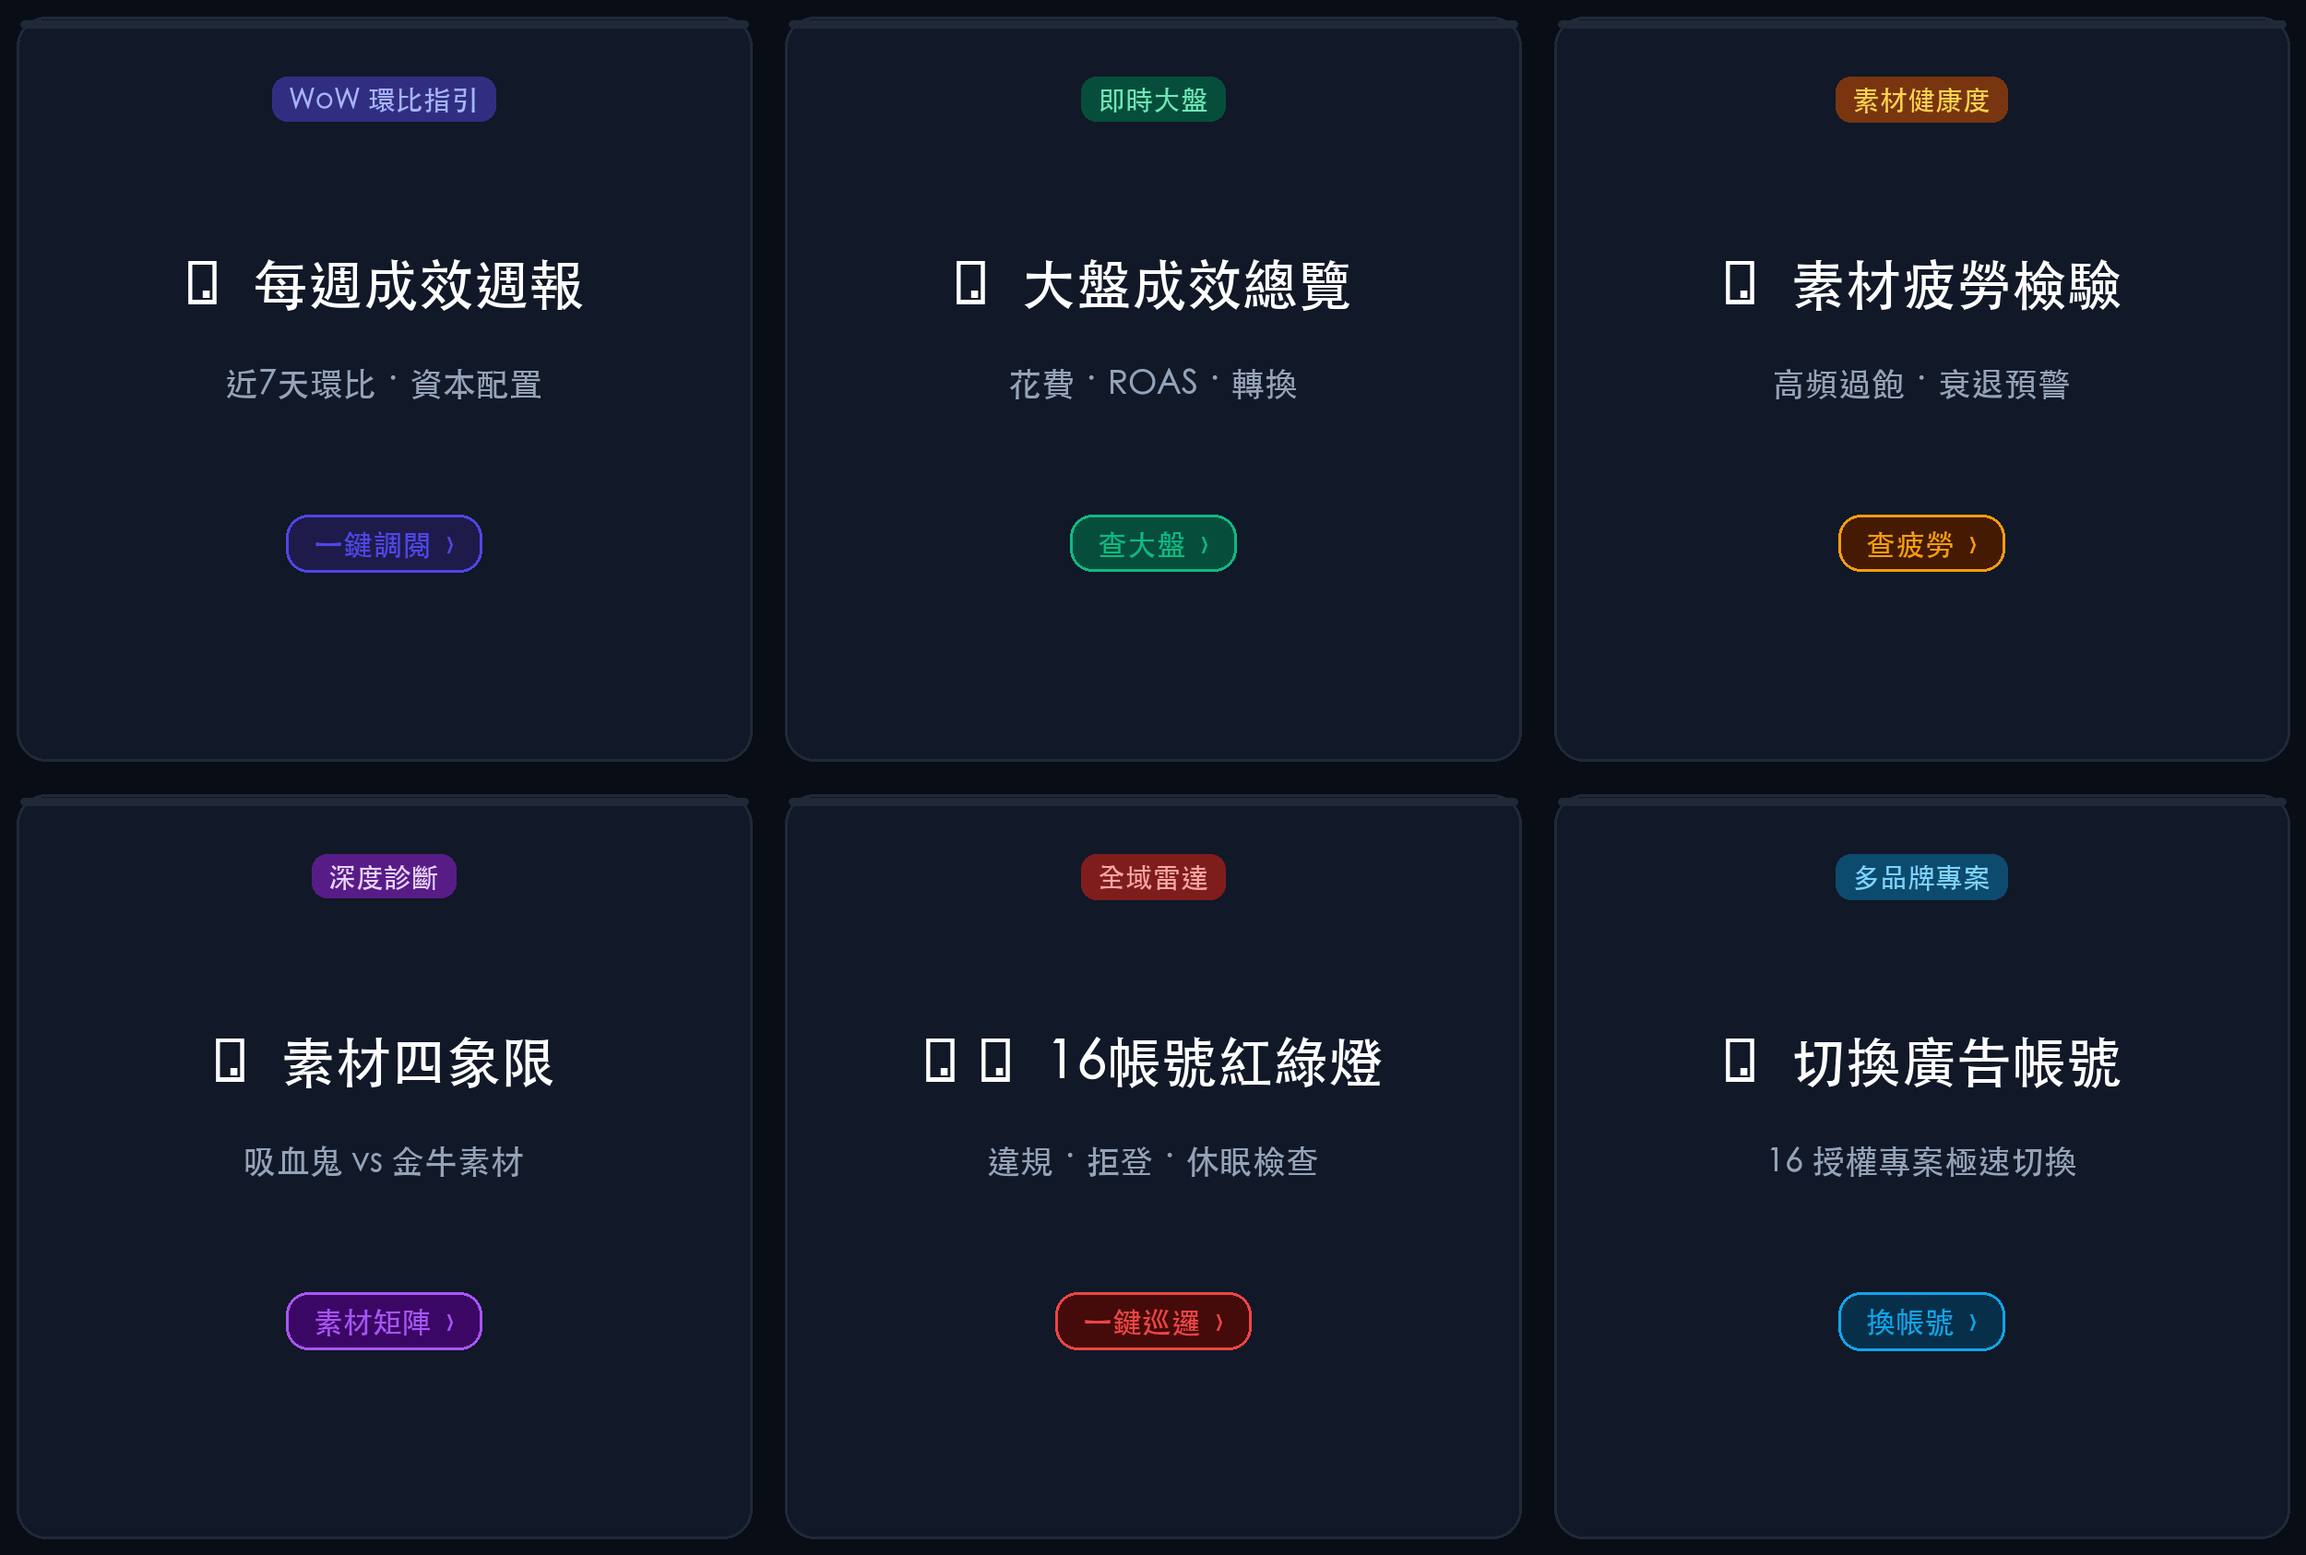
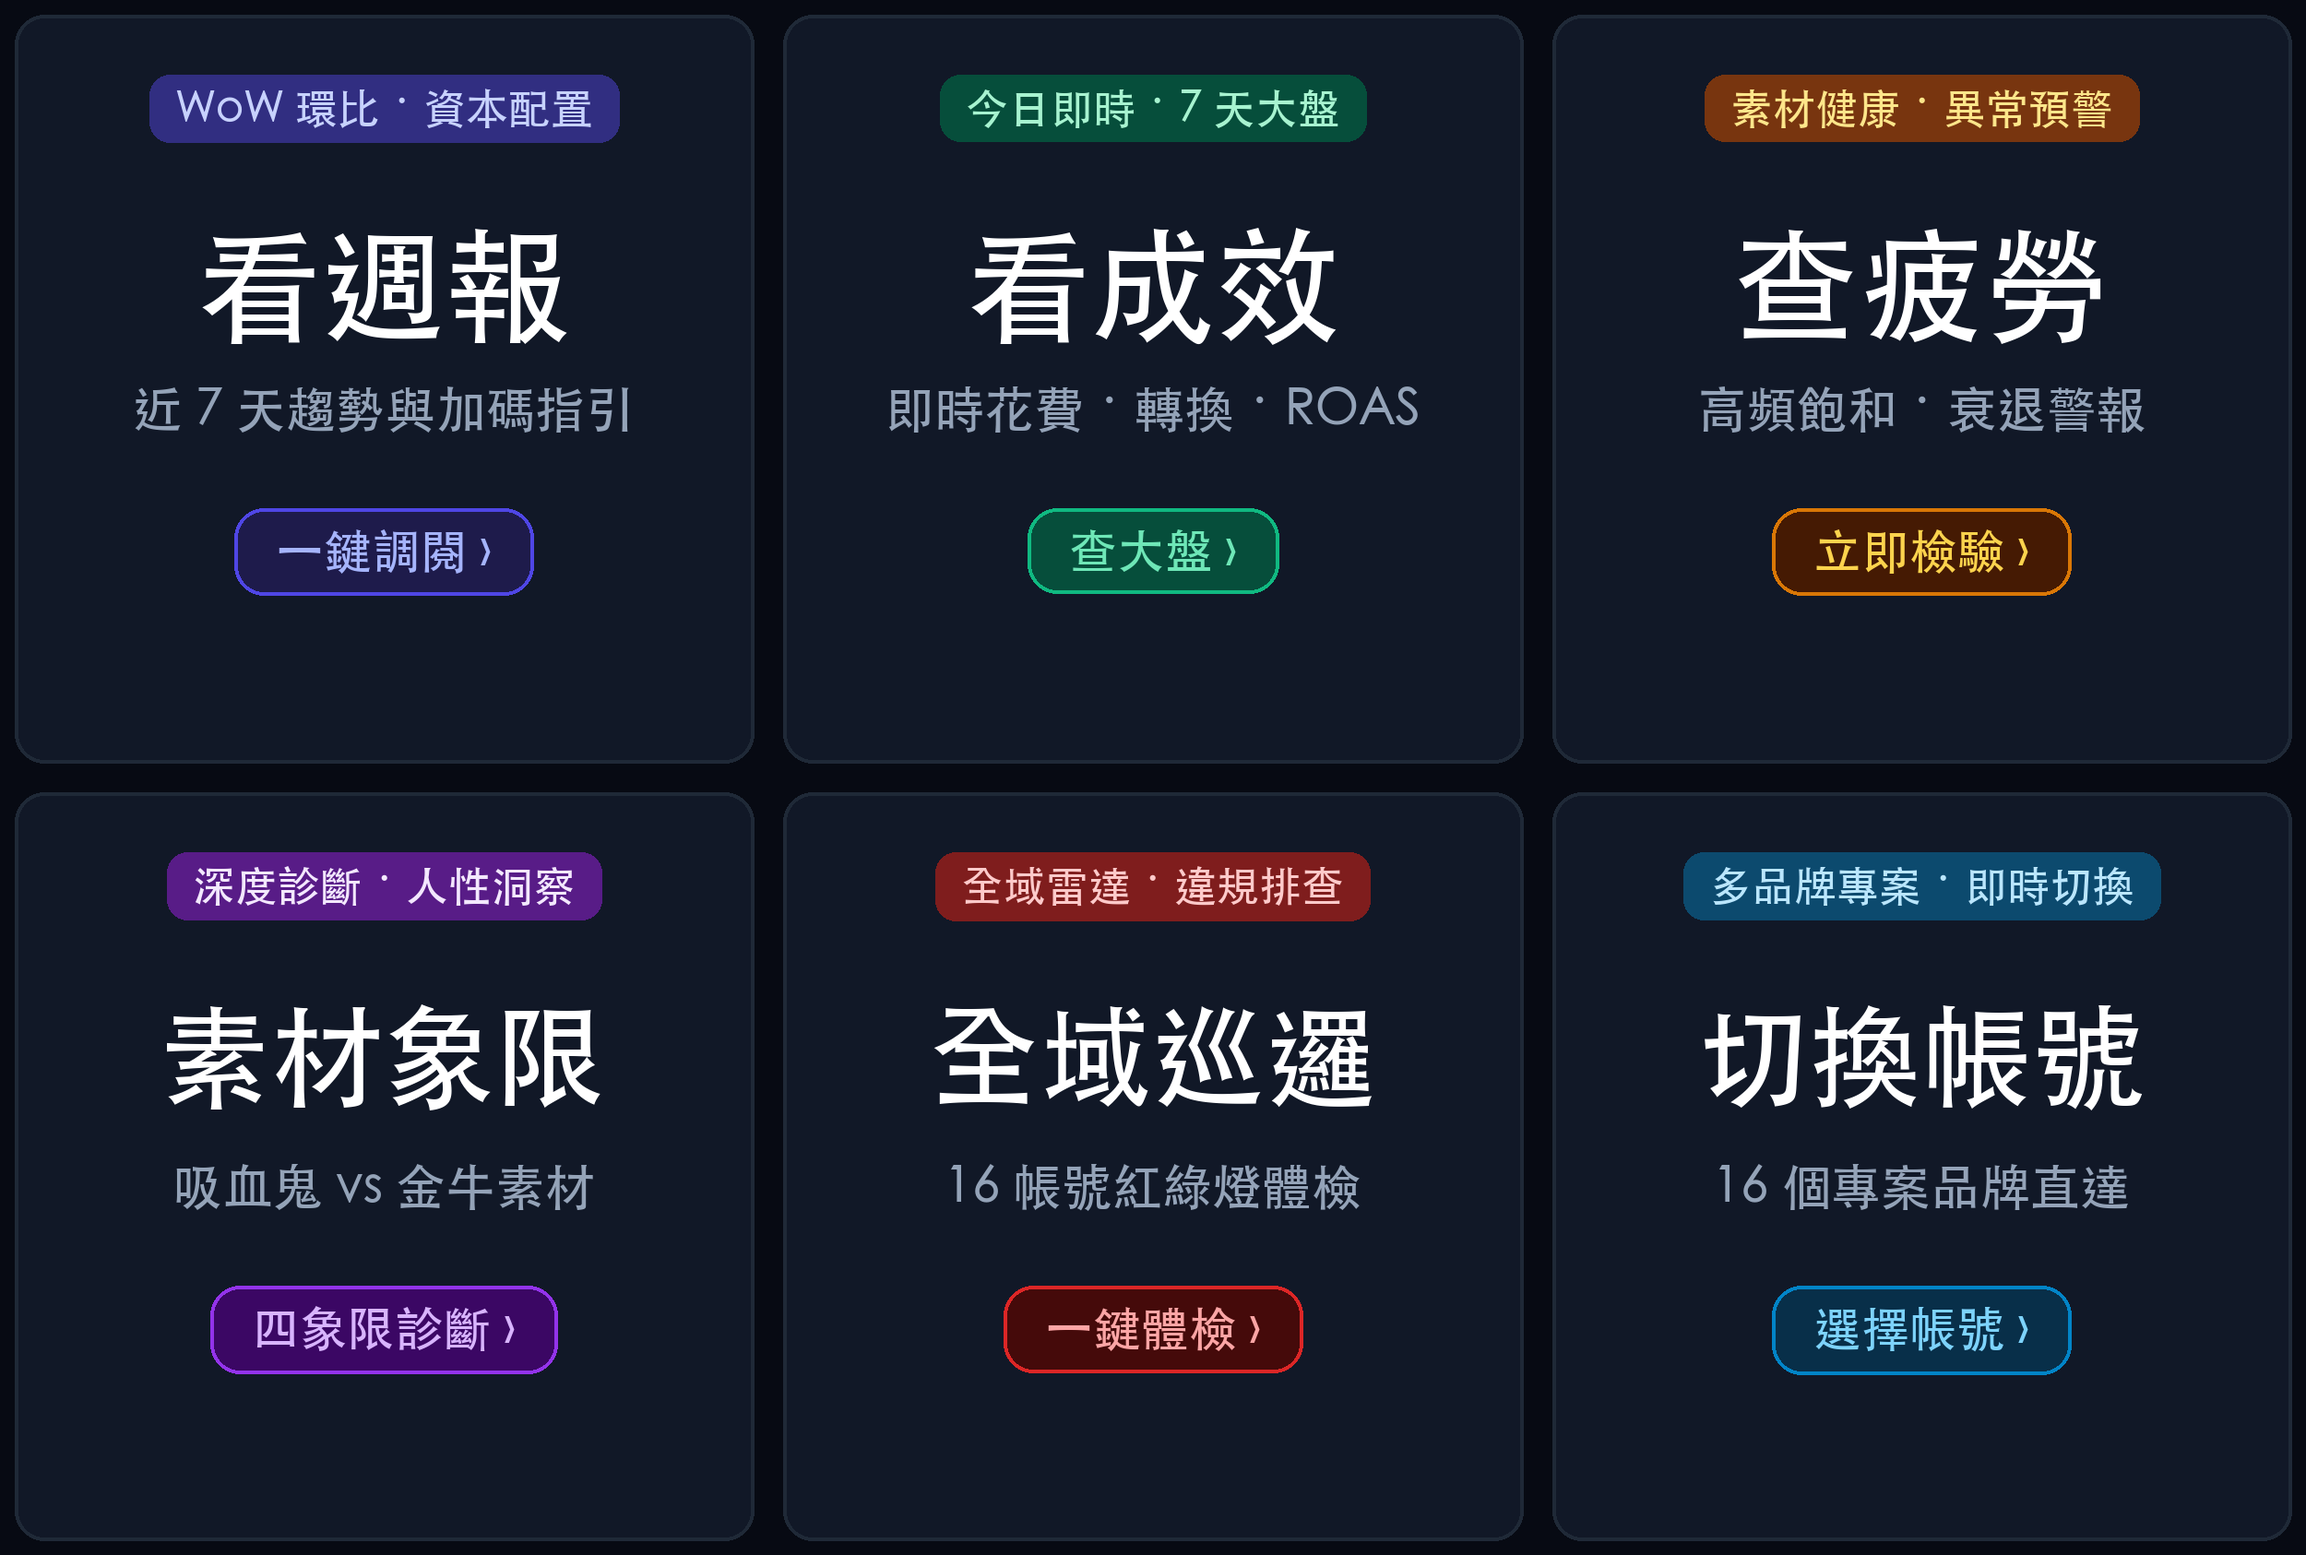
style: enlarge rich menu text for mobile readability and remove broken emoji glyphs

diff --git a/scripts/generate_rich_menu.py b/scripts/generate_rich_menu.py
@@ -1,59 +1,61 @@
 from PIL import Image, ImageDraw, ImageFont
-import os
 
 W = 2500
 H = 1686
-img = Image.new('RGB', (W, H), color='#090D16')
+img = Image.new('RGB', (W, H), color='#070A13')
 draw = ImageDraw.Draw(img)
 
-# Fonts
-font_title = ImageFont.truetype('/System/Library/Fonts/STHeiti Medium.ttc', 60)
-font_sub = ImageFont.truetype('/System/Library/Fonts/STHeiti Medium.ttc', 36)
-font_badge = ImageFont.truetype('/System/Library/Fonts/STHeiti Medium.ttc', 30)
-font_btn = ImageFont.truetype('/System/Library/Fonts/STHeiti Medium.ttc', 32)
+font_path = '/System/Library/Fonts/STHeiti Medium.ttc'
+
+# Maximum readability font sizes for mobile
+font_title_3 = ImageFont.truetype(font_path, 136)  # For 3-character titles like 看週報, 看成效, 查疲勞
+font_title_4 = ImageFont.truetype(font_path, 122)  # For 4-character titles like 素材象限, 全域巡邏, 切換帳號
+font_sub = ImageFont.truetype(font_path, 54)
+font_badge = ImageFont.truetype(font_path, 46)
+font_btn = ImageFont.truetype(font_path, 52)
 
 tiles = [
     {
         'col': 0, 'row': 0,
-        'tag': 'WoW 環比指引', 'tag_bg': '#312E81', 'tag_color': '#A5B4FC',
-        'icon': '📊', 'title': '每週成效週報',
-        'sub': '近7天環比 ‧ 資本配置',
-        'btn': '一鍵調閱', 'btn_color': '#4F46E5', 'btn_bg': '#1E1B4B'
+        'tag': 'WoW 環比 ‧ 資本配置', 'tag_bg': '#312E81', 'tag_color': '#C7D2FE',
+        'title': '看週報',
+        'sub': '近 7 天趨勢與加碼指引',
+        'btn': '一鍵調閱 ›', 'btn_color': '#A5B4FC', 'btn_bg': '#1E1B4B', 'btn_border': '#4F46E5'
     },
     {
         'col': 1, 'row': 0,
-        'tag': '即時大盤', 'tag_bg': '#064E3B', 'tag_color': '#6EE7B7',
-        'icon': '📈', 'title': '大盤成效總覽',
-        'sub': '花費 ‧ ROAS ‧ 轉換',
-        'btn': '查大盤', 'btn_color': '#10B981', 'btn_bg': '#064E3B'
+        'tag': '今日即時 ‧ 7 天大盤', 'tag_bg': '#064E3B', 'tag_color': '#A7F3D0',
+        'title': '看成效',
+        'sub': '即時花費 ‧ 轉換 ‧ ROAS',
+        'btn': '查大盤 ›', 'btn_color': '#6EE7B7', 'btn_bg': '#064E3B', 'btn_border': '#10B981'
     },
     {
         'col': 2, 'row': 0,
-        'tag': '素材健康度', 'tag_bg': '#78350F', 'tag_color': '#FCD34D',
-        'icon': '⚡', 'title': '素材疲勞檢驗',
-        'sub': '高頻過飽 ‧ 衰退預警',
-        'btn': '查疲勞', 'btn_color': '#F59E0B', 'btn_bg': '#451A03'
+        'tag': '素材健康 ‧ 異常預警', 'tag_bg': '#78350F', 'tag_color': '#FDE68A',
+        'title': '查疲勞',
+        'sub': '高頻飽和 ‧ 衰退警報',
+        'btn': '立即檢驗 ›', 'btn_color': '#FCD34D', 'btn_bg': '#451A03', 'btn_border': '#D97706'
     },
     {
         'col': 0, 'row': 1,
-        'tag': '深度診斷', 'tag_bg': '#581C87', 'tag_color': '#E9D5FF',
-        'icon': '🎯', 'title': '素材四象限',
+        'tag': '深度診斷 ‧ 人性洞察', 'tag_bg': '#581C87', 'tag_color': '#F3E8FF',
+        'title': '素材象限',
         'sub': '吸血鬼 vs 金牛素材',
-        'btn': '素材矩陣', 'btn_color': '#A855F7', 'btn_bg': '#3B0764'
+        'btn': '四象限診斷 ›', 'btn_color': '#D8B4FE', 'btn_bg': '#3B0764', 'btn_border': '#9333EA'
     },
     {
         'col': 1, 'row': 1,
-        'tag': '全域雷達', 'tag_bg': '#7F1D1D', 'tag_color': '#FCA5A5',
-        'icon': '🛡', 'title': '16帳號紅綠燈',
-        'sub': '違規 ‧ 拒登 ‧ 休眠檢查',
-        'btn': '一鍵巡邏', 'btn_color': '#EF4444', 'btn_bg': '#450A0A'
+        'tag': '全域雷達 ‧ 違規排查', 'tag_bg': '#7F1D1D', 'tag_color': '#FECACA',
+        'title': '全域巡邏',
+        'sub': '16 帳號紅綠燈體檢',
+        'btn': '一鍵體檢 ›', 'btn_color': '#FCA5A5', 'btn_bg': '#450A0A', 'btn_border': '#DC2626'
     },
     {
         'col': 2, 'row': 1,
-        'tag': '多品牌專案', 'tag_bg': '#0C4A6E', 'tag_color': '#7DD3FC',
-        'icon': '🏢', 'title': '切換廣告帳號',
-        'sub': '16 授權專案極速切換',
-        'btn': '換帳號', 'btn_color': '#0EA5E9', 'btn_bg': '#082F49'
+        'tag': '多品牌專案 ‧ 即時切換', 'tag_bg': '#0C4A6E', 'tag_color': '#BAE6FD',
+        'title': '切換帳號',
+        'sub': '16 個專案品牌直達',
+        'btn': '選擇帳號 ›', 'btn_color': '#7DD3FC', 'btn_bg': '#082F49', 'btn_border': '#0284C7'
     }
 ]
 
@@ -62,7 +64,7 @@ cols_x = [0, 833, 1667]
 rows_h = 843
 rows_y = [0, 843]
 
-pad = 18
+pad = 16
 
 for t in tiles:
     c = t['col']
@@ -74,42 +76,43 @@ for t in tiles:
     x1 = x0 + w
     y1 = y0 + h
 
-    # Card background
-    draw.rounded_rectangle([x0, y0, x1, y1], radius=32, fill='#111827', outline='#1F2937', width=3)
-    
-    # Inner subtle header glow
-    draw.rounded_rectangle([x0+4, y0+4, x1-4, y0+12], radius=6, fill='#1F2937')
+    # Card background (Dark slate glassmorphism with high contrast border)
+    draw.rounded_rectangle([x0, y0, x1, y1], radius=32, fill='#111827', outline='#1F2937', width=4)
 
-    # Top Tag Badge
+    # 1. Top Badge Pill
     tag_text = t['tag']
     tag_bbox = draw.textbbox((0, 0), tag_text, font=font_badge)
-    tag_w = tag_bbox[2] - tag_bbox[0] + 36
-    tag_h = tag_bbox[3] - tag_bbox[1] + 20
+    tag_tw = tag_bbox[2] - tag_bbox[0]
+    tag_th = tag_bbox[3] - tag_bbox[1]
+    tag_w = tag_tw + 56
+    tag_h = tag_th + 30
     tag_x = x0 + (w - tag_w) // 2
     tag_y = y0 + 65
-    draw.rounded_rectangle([tag_x, tag_y, tag_x + tag_w, tag_y + tag_h], radius=16, fill=t['tag_bg'])
-    draw.text((tag_x + 18, tag_y + 10), tag_text, font=font_badge, fill=t['tag_color'])
+    draw.rounded_rectangle([tag_x, tag_y, tag_x + tag_w, tag_y + tag_h], radius=22, fill=t['tag_bg'])
+    draw.text((tag_x + 28, tag_y + 13), tag_text, font=font_badge, fill=t['tag_color'])
 
-    # Title with icon
-    full_title = f"{t['icon']} {t['title']}"
-    tb = draw.textbbox((0, 0), full_title, font=font_title)
+    # 2. Main Title (MASSIVE, BOLD, 100% CRISP)
+    title_text = t['title']
+    cur_font = font_title_3 if len(title_text) <= 3 else font_title_4
+    tb = draw.textbbox((0, 0), title_text, font=cur_font)
     tw = tb[2] - tb[0]
-    draw.text((x0 + (w - tw) // 2, y0 + 260), full_title, font=font_title, fill='#FFFFFF')
+    draw.text((x0 + (w - tw) // 2, y0 + 225), title_text, font=cur_font, fill='#FFFFFF')
 
-    # Subtitle
-    sb = draw.textbbox((0, 0), t['sub'], font=font_sub)
+    # 3. Subtitle (54px for comfortable reading)
+    sub_text = t['sub']
+    sb = draw.textbbox((0, 0), sub_text, font=font_sub)
     sw = sb[2] - sb[0]
-    draw.text((x0 + (w - sw) // 2, y0 + 380), t['sub'], font=font_sub, fill='#94A3B8')
+    draw.text((x0 + (w - sw) // 2, y0 + 400), sub_text, font=font_sub, fill='#94A3B8')
 
-    # Action Button Pill
-    btn_text = f"{t['btn']}  ›"
+    # 4. Action Button Pill (Prominent tap target)
+    btn_text = t['btn']
     bb = draw.textbbox((0, 0), btn_text, font=font_btn)
-    bw = bb[2] - bb[0] + 60
-    bh = bb[3] - bb[1] + 32
+    bw = bb[2] - bb[0] + 90
+    bh = bb[3] - bb[1] + 46
     bx = x0 + (w - bw) // 2
-    by = y0 + 540
-    draw.rounded_rectangle([bx, by, bx + bw, by + bh], radius=24, fill=t['btn_bg'], outline=t['btn_color'], width=3)
-    draw.text((bx + 30, by + 16), btn_text, font=font_btn, fill=t['btn_color'])
+    by = y0 + 535
+    draw.rounded_rectangle([bx, by, bx + bw, by + bh], radius=32, fill=t['btn_bg'], outline=t['btn_border'], width=4)
+    draw.text((bx + 45, by + 20), btn_text, font=font_btn, fill=t['btn_color'])
 
 img.save('rich_menu.png', format='PNG', optimize=True)
-print('Generated rich_menu.png successfully!')
+print('Generated ultra-large rich_menu.png successfully!')
